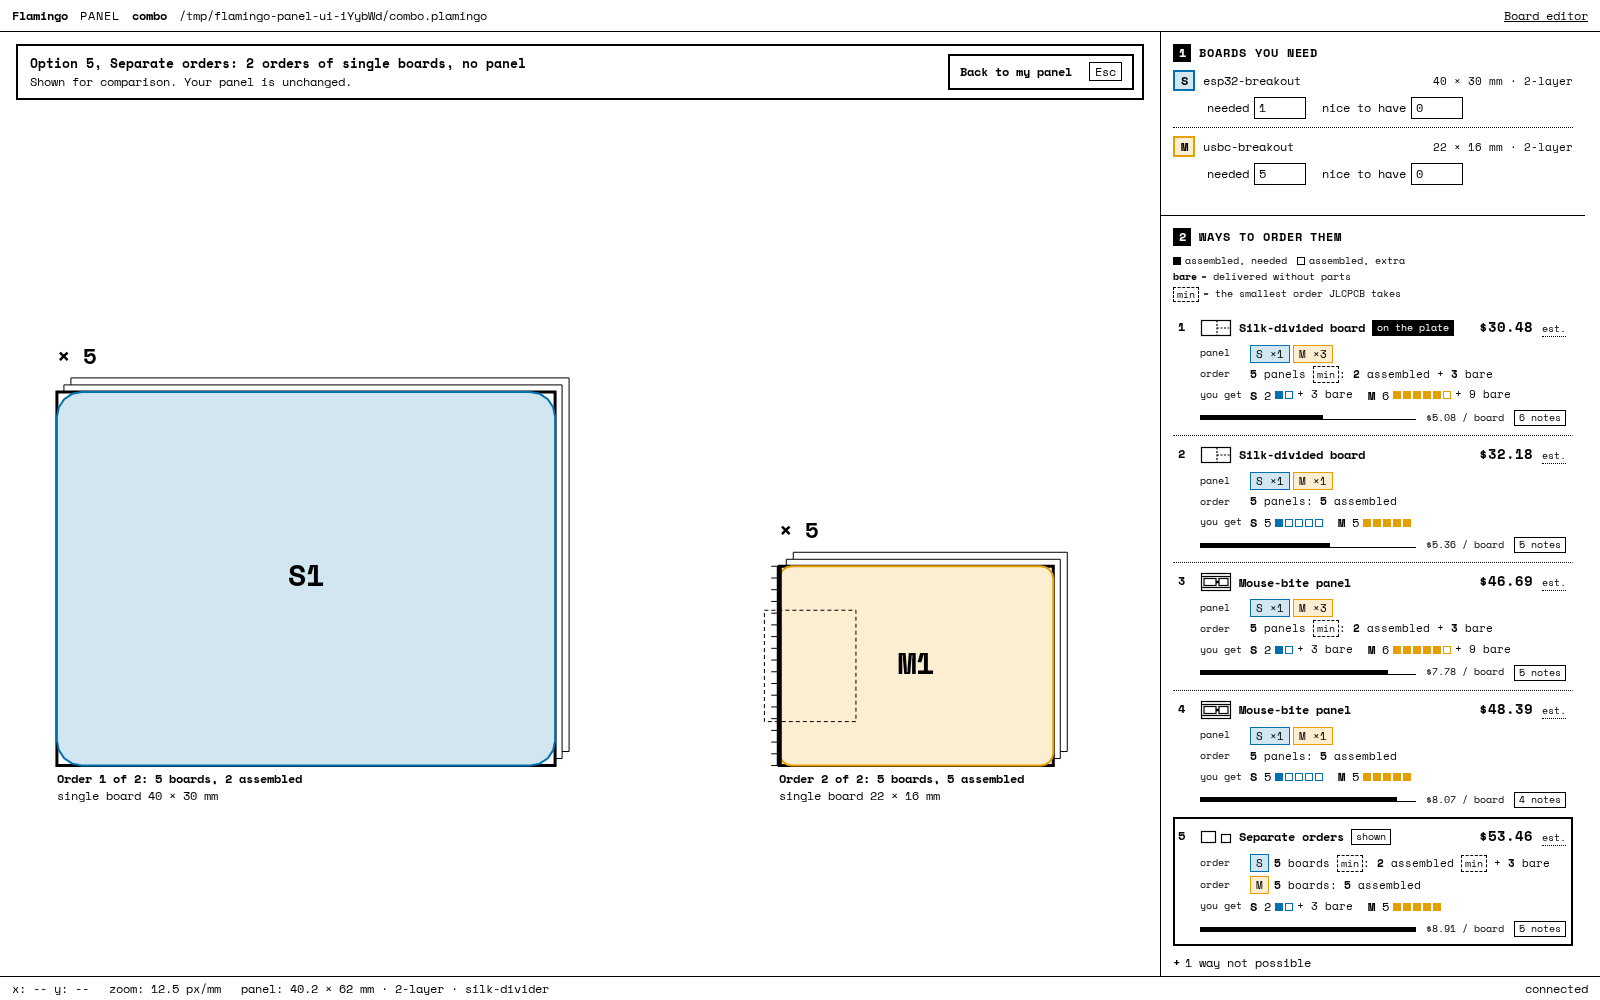
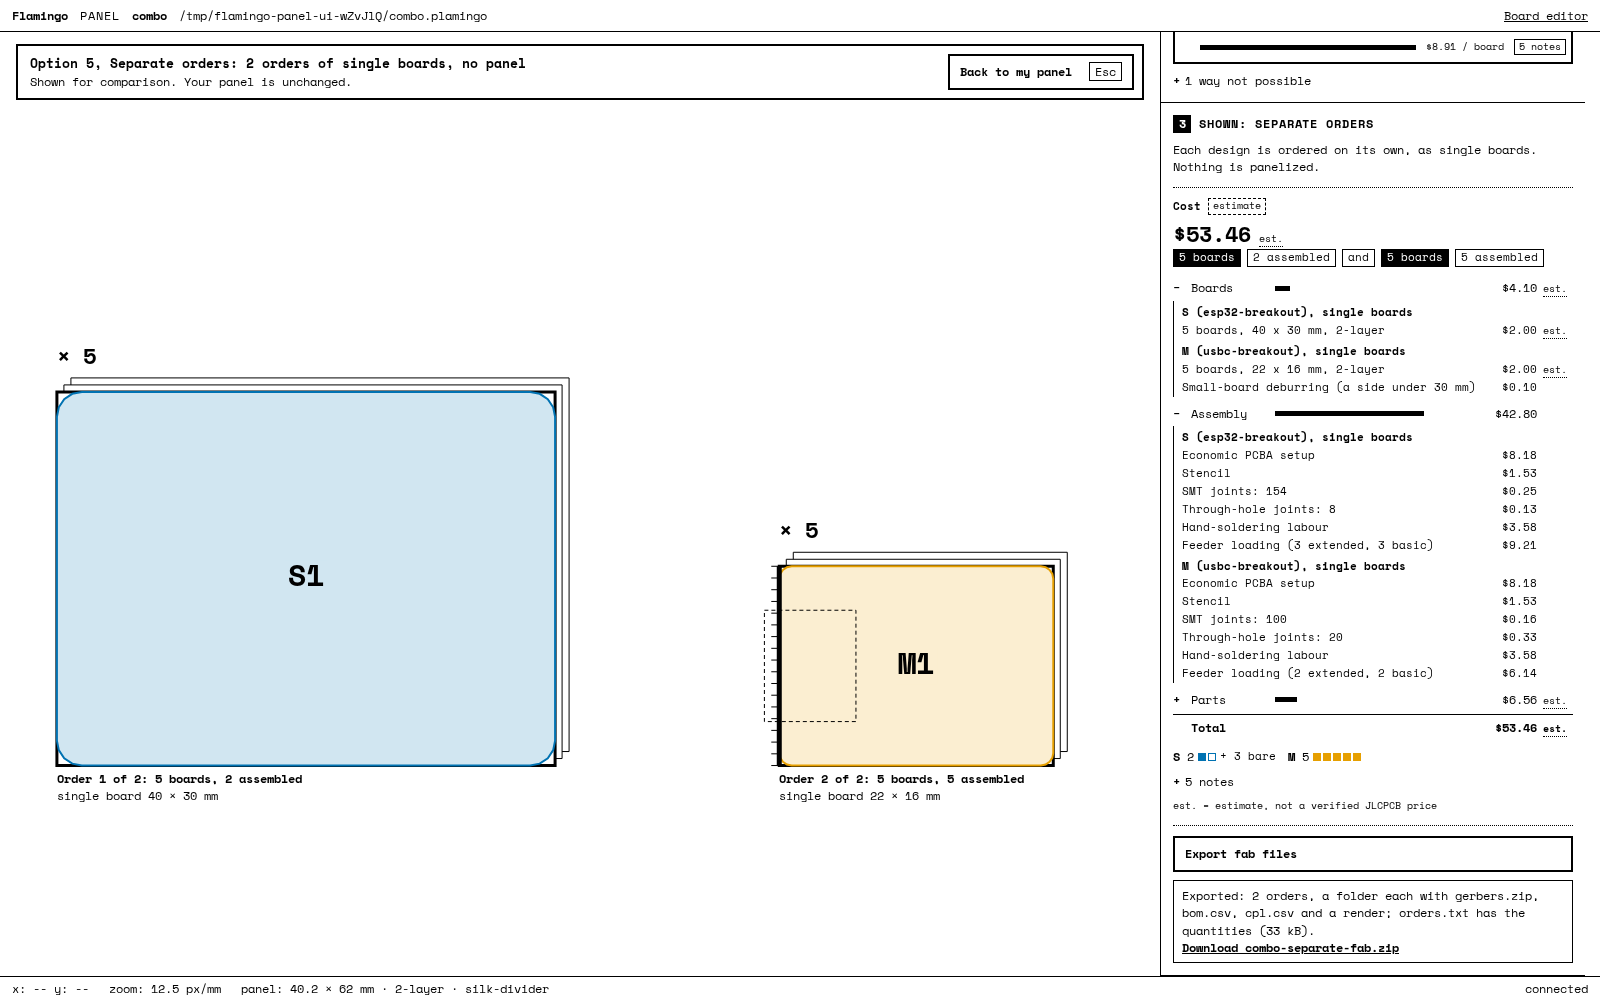
ui: export the fab files of separate orders
Export fab files was disabled while a scenario that is not one panel was
shown (separate orders, each design on its own panel, split by layer
count). It now downloads one zip with a folder per order, each holding
that order's gerbers.zip, BOM, CPL and a render, plus orders.txt with the
quantities to enter. A single-board order gets the board's own export; a
panel order gets the panel export of the scenario's layout. Source-board
DRC errors refuse the export. The panel on the plate is untouched.

New route: GET /api/panel/scenario-export.zip?id=<scenario>.

Also updates verify-panel-ui.ts for the stale tag now reading "stale ↻".

Changed region(s): [[0.7188, 0.031, 0.9688, 0.992], [0.875, 0.527, 0.9062, 0.558], [0.2188, 0.0, 0.25, 0.031]]

diff --git a/packages/server/src/panel/session.ts b/packages/server/src/panel/session.ts
@@ -16,7 +16,8 @@ import { readFile, readdir, stat } from 'node:fs/promises';
 import { basename, dirname, extname, isAbsolute, join, resolve } from 'node:path';
 import { Resvg } from '@resvg/resvg-js';
 import type { Board, DrcViolation } from '@flamingo/engine';
-import { fillAllZones, runDRC } from '@flamingo/engine';
+import { fillAllZones, renderSVG, runDRC } from '@flamingo/engine';
+import { generateBOM, generateCPL, generateGerbers } from '@flamingo/fab';
 import type {
   ArrangeResult,
   FeeTable,
@@ -80,6 +81,21 @@ export interface PanelSessionOptions {
 }
 
 export type { LimitView, PanelView, SourceView } from '@flamingo/panel';
+
+/** One order of a scenario, as the files it uploads to JLCPCB. */
+export interface ScenarioFab {
+  /** Folder in the download, e.g. `S-sensor` or `M-panel`. */
+  folder: string;
+  label: string;
+  /** Pieces fabricated, and how many of them are assembled. */
+  made: number;
+  assembled: number;
+  gerbers: Map<string, string>;
+  bom: string;
+  cpl: string;
+  svgName: string;
+  svg: string;
+}
 
 export type Outcome<T> = ({ ok: true } & T) | { ok: false; error: string };
 
@@ -168,19 +184,25 @@ export class PanelSession extends EventEmitter {
     for (const s of sources) {
       const instances = panel.instances.filter((i) => i.source === s.key).map((i) => i.id);
       if (instances.length === 0) continue;
-      const v = this.sourceDrc(s);
-      if (v.length === 0) continue;
-      const rules = [...new Set(v.map((x) => x.rule))];
-      issues.push({
-        code: 'source-drc',
-        severity: 'error',
-        message: `${s.key} (${s.name}) has ${v.length} DRC violation${v.length === 1 ? '' : 's'} of its own (${rules.join(', ')}). Fix them in the board, or waive to export anyway.`,
-        instances,
-        sources: [s.key],
-        data: { count: v.length, rules },
-      });
+      const issue = this.drcIssue(s, instances);
+      if (issue) issues.push(issue);
     }
     return issues;
+  }
+
+  /** A source board's own DRC violations as one issue, or null when it has none. */
+  private drcIssue(s: ResolvedSource, instances: string[]): PanelIssue | null {
+    const v = this.sourceDrc(s);
+    if (v.length === 0) return null;
+    const rules = [...new Set(v.map((x) => x.rule))];
+    return {
+      code: 'source-drc',
+      severity: 'error',
+      message: `${s.key} (${s.name}) has ${v.length} DRC violation${v.length === 1 ? '' : 's'} of its own (${rules.join(', ')}). Fix them in the board, or waive to export anyway.`,
+      instances,
+      sources: [s.key],
+      data: { count: v.length, rules },
+    };
   }
 
   /** Everything a client needs to draw and judge the panel. Cached until the next change. */
@@ -679,6 +701,79 @@ export class PanelSession extends EventEmitter {
     } catch (err) {
       return fail(err);
     }
+  }
+
+  /**
+   * The fab files of a scenario that is not one panel (separate orders, each
+   * design on its own panel, split by layer count), in memory: one fileset per
+   * order, each what that order uploads to JLCPCB. A single-board order gets
+   * the board's own export, as export_fab writes it; a panel order gets the
+   * panel export of the scenario's layout. The panel on the plate is untouched.
+   */
+  async buildScenarioFab(
+    id: string,
+    opts: { waive?: boolean; objective?: Objective } = {},
+  ): Promise<Outcome<{ scenario: Scenario; orders: ScenarioFab[]; waived: PanelIssue[] }> & { blocking?: PanelIssue[] }> {
+    const result = await this.quote(opts.objective);
+    const scenario = result.scenarios.find((s) => s.id === id);
+    if (!scenario) {
+      const rejected = result.rejected.find((r) => r.id === id);
+      return fail(rejected ? `Scenario "${id}" is not possible: ${rejected.reason}` : `Unknown scenario "${id}"`);
+    }
+    const sources = await this.resolved();
+    const blocking: PanelIssue[] = [];
+    const orders: ScenarioFab[] = [];
+    try {
+      for (const order of scenario.orders) {
+        const made = order.priced.order.pcbQty;
+        const assembled = order.priced.order.assembly?.qty ?? 0;
+        if (!order.panel) {
+          const key = order.designs[0]!;
+          const src = sources.find((s) => s.key === key);
+          if (!src?.board) return fail(src?.error ?? `Board ${key} is not resolved`);
+          const drc = this.drcIssue(src, []);
+          if (drc) blocking.push(drc);
+          const filled = fillAllZones(src.board);
+          orders.push({
+            folder: `${key}-${safeName(src.name)}`,
+            label: order.label,
+            made,
+            assembled,
+            gerbers: generateGerbers(filled).files,
+            bom: generateBOM(src.board),
+            cpl: generateCPL(src.board),
+            svgName: 'board.render.svg',
+            svg: renderSVG(filled),
+          });
+          continue;
+        }
+        if (!order.layout) return fail(`Order "${order.label}" has no panel layout`);
+        const applied = applyPanelOp(this.panel, { op: 'setLayout', instances: order.layout.instances, settings: order.layout.settings });
+        if (!applied.ok) return fail(applied.error);
+        const panel = applied.panel;
+        const geometry = computeGeometry(panel, sources);
+        const issues = [...checkPanel(panel, sources, this.limits, geometry), ...this.drcIssues(panel, sources)];
+        blocking.push(...issues.filter((i) => i.severity === 'error'));
+        const built = buildPanelFab(panel, sources, this.limits, { geometry, issues });
+        orders.push({
+          folder: `${order.designs.join('-')}-panel`,
+          label: order.label,
+          made,
+          assembled,
+          gerbers: built.gerbers,
+          bom: built.bom,
+          cpl: built.cpl,
+          svgName: 'panel.render.svg',
+          svg: built.svg,
+        });
+      }
+    } catch (err) {
+      return fail(err);
+    }
+    if (blocking.length > 0 && !opts.waive) {
+      return { ok: false, error: `${blocking.length} error(s) stop the export`, blocking };
+    }
+    return { ok: true, scenario, orders, waived: blocking };
   }
 
   hasErrors(issues: PanelIssue[]): boolean {

diff --git a/packages/server/scripts/verify-panel-ui.ts b/packages/server/scripts/verify-panel-ui.ts
@@ -659,12 +659,25 @@ async function main(): Promise<void> {
     assert((await separate.locator('.where-shown').innerText()).trim() === 'shown', 'the way shown is not marked');
     assert((await page.locator('#option-list .where-plate').count()) === 1, 'the panel on the plate lost its mark while another way is shown');
     assert((await page.locator('#option-list .scenario.selected').count()) === 1 && (await separate.getAttribute('class'))!.includes('selected'), 'the way in view is not the one framed');
-    // Step 3 is about what is shown: its cost, and nothing to change, check or export.
+    // Step 3 is about what is shown: its cost and its export, and nothing to change or check.
     const sepTotal = await state<number>("s.quote.scenarios.find((x) => x.id === 'separate').total");
     assert((await text('#cost-total')) === `$${sepTotal.toFixed(2)}`, 'step 3 does not show the cost of what is shown');
     assert(!(await page.locator('#plate-edit').isVisible()) && !(await page.locator('#checks').isVisible()), 'what is only shown has tools or checks');
-    assert(await page.locator('#export-btn').isDisabled(), 'what is only shown can be exported');
+    assert(!(await page.locator('#export-btn').isDisabled()), 'separate orders cannot be exported');
     await tidy('with separate orders shown');
+    {
+      await page.locator('#export-btn').click();
+      await page.locator('#export-link').waitFor();
+      const [download] = await Promise.all([page.waitForEvent('download'), page.locator('#export-link').click()]);
+      assert(download.suggestedFilename() === 'combo-separate-fab.zip', `the download is called ${download.suggestedFilename()}`);
+      const zipPath = join(projectDir, 'separate.zip');
+      await download.saveAs(zipPath);
+      const names = new AdmZip(zipPath).getEntries().map((e) => e.entryName);
+      const folders = [...new Set(names.filter((n) => n.includes('/')).map((n) => n.split('/')[0]))];
+      assert(folders.length === 2 && folders.every((f) => names.includes(`${f}/gerbers.zip`) && names.includes(`${f}/bom.csv`)), `the zip holds ${names.join(', ')}`);
+      assert(JSON.stringify((await getView()).panel) === panelBefore, 'exporting separate orders changed the panel');
+      console.log(`  ${download.suggestedFilename()}: ${folders.join(', ')}`);
+    }
     // The plate shows two plates, one per order, each in its board's colour.
     const shotSeparate = await shot('10b-scenario-separate', 'Separate orders selected: the plate shows the two orders side by side, each a stack of single boards with its quantity, under a banner saying the panel is unchanged.');
     {
@@ -798,7 +811,7 @@ async function main(): Promise<void> {
     await writeFile(boardPath, JSON.stringify(edited, null, 2));
     started.panel!.touch();
     await until("v.sources.find((s) => s.key === 'M').stale === true", 'M stale in the page');
-    assert((await text('#board-list .board[data-key="M"] .tag')) === 'stale', 'the board list does not tag M as stale');
+    assert((await text('#board-list .board[data-key="M"] .tag')).startsWith('stale'), 'the board list does not tag M as stale');
     assert((await text('#issue-list .issue[data-code="source-stale"] .issue-title')) === 'Board changed on disk', 'the stale board is not listed under Checks');
     await page.keyboard.press('a');
     await until("v.issues.filter((i) => i.severity === 'error').length === 0", 'a clean panel');

diff --git a/packages/server/src/panel/http.ts b/packages/server/src/panel/http.ts
@@ -50,7 +50,20 @@ function objectiveOf(v: unknown): Objective {
   return typeof v === 'string' && (OBJECTIVES as readonly string[]).includes(v) ? (v as Objective) : 'total';
 }
 
-function streamZip(files: Map<string, string>, res: ServerResponse): Promise<void> {
+/** Zip a name -> content map into memory. */
+function zipBuffer(files: Map<string, string | Buffer>): Promise<Buffer> {
+  return new Promise((resolveP, reject) => {
+    const archive = new ZipArchive({ zlib: { level: 9 } });
+    const chunks: Buffer[] = [];
+    archive.on('data', (c: Buffer) => chunks.push(c));
+    archive.on('end', () => resolveP(Buffer.concat(chunks)));
+    archive.on('error', reject);
+    for (const [name, content] of files) archive.append(content, { name });
+    void archive.finalize();
+  });
+}
+
+function streamZip(files: Map<string, string | Buffer>, res: ServerResponse): Promise<void> {
   return new Promise((resolveP, reject) => {
     const archive = new ZipArchive({ zlib: { level: 9 } });
     let done = false;
@@ -136,6 +149,34 @@ export async function handlePanelApi(
         files.set('cpl.csv', built.files.cpl);
         files.set('panel.render.svg', built.files.svg);
         const name = `${session.panel.name.replace(/[^\w.-]+/g, '_') || 'panel'}-panel-fab.zip`;
+        res.writeHead(200, {
+          'content-type': 'application/zip',
+          'content-disposition': `attachment; filename="${name}"`,
+        });
+        await streamZip(files, res);
+        return true;
+      }
+      case 'scenario-export.zip': {
+        const id = url.searchParams.get('id') ?? '';
+        const built = await session.buildScenarioFab(id, { waive: url.searchParams.get('waive') === '1' });
+        if (!built.ok) {
+          sendJSON(res, 400, { ok: false, error: built.error, issues: built.blocking ?? [] });
+          return true;
+        }
+        // One folder per order, each holding what that order uploads to
+        // JLCPCB: its gerbers.zip as it is, the BOM, the placement list and a
+        // picture. orders.txt says what quantities to enter for each.
+        const files = new Map<string, string | Buffer>();
+        const plan = [`${built.scenario.title}`, ''];
+        for (const o of built.orders) {
+          files.set(`${o.folder}/gerbers.zip`, await zipBuffer(new Map(o.gerbers)));
+          files.set(`${o.folder}/bom.csv`, o.bom);
+          files.set(`${o.folder}/cpl.csv`, o.cpl);
+          files.set(`${o.folder}/${o.svgName}`, o.svg);
+          plan.push(`${o.folder}/  ${o.label}: PCB qty ${o.made}, ${o.assembled > 0 ? `assemble ${o.assembled}` : 'no assembly'}`);
+        }
+        files.set('orders.txt', `${plan.join('\n')}\n`);
+        const name = `${session.panel.name.replace(/[^\w.-]+/g, '_') || 'panel'}-${built.scenario.kind}-fab.zip`;
         res.writeHead(200, {
           'content-type': 'application/zip',
           'content-disposition': `attachment; filename="${name}"`,

diff --git a/packages/ui/src/panel/main.ts b/packages/ui/src/panel/main.ts
@@ -80,7 +80,7 @@ function previewed(): Scenario | undefined {
 /** Show the panel again. */
 function leavePreview(): void {
   if (!store.get().preview) return;
-  store.set({ preview: null });
+  store.set({ preview: null, exportMsg: null });
   const view = store.get().view;
   if (view) fit(view);
 }
@@ -268,7 +268,7 @@ function removeSelected(): void {
 async function selectOption(id: string): Promise<void> {
   const { view, quote } = store.get();
   if (!view) return;
-  store.set({ arrangeMsg: null, selection: null, menu: null, drag: null });
+  store.set({ arrangeMsg: null, exportMsg: null, selection: null, menu: null, drag: null });
   // The panel that is already on the plate: look at it.
   if (id === OWN || scenarioOnPlate(view, quote)?.id === id) {
     leavePreview();
@@ -311,8 +311,9 @@ let exportUrl: string | null = null;
 
 async function exportFab(): Promise<void> {
   if (store.get().busy) return;
+  const shown = previewed();
   store.set({ busy: true, exportMsg: { text: 'Exporting…', problem: false } });
-  const r = await api.exportZip();
+  const r = await api.exportZip(shown?.id);
   if (exportUrl) URL.revokeObjectURL(exportUrl);
   exportUrl = null;
   if (isError(r)) {
@@ -320,7 +321,9 @@ async function exportFab(): Promise<void> {
     store.set({
       busy: false,
       exportMsg: {
-        text: `Not exported: ${r.error}.${findings ? `\n${findings}` : ''}\nFix the errors listed under Warnings. To export regardless, use export_panel_fab with waive.`,
+        text: shown
+          ? `Not exported: ${r.error}.${findings ? `\n${findings}` : ''}\nFix them in the boards.`
+          : `Not exported: ${r.error}.${findings ? `\n${findings}` : ''}\nFix the errors listed under Warnings. To export regardless, use export_panel_fab with waive.`,
         problem: true,
       },
     });
@@ -330,7 +333,9 @@ async function exportFab(): Promise<void> {
   store.set({
     busy: false,
     exportMsg: {
-      text: `Exported: gerbers, drills, bom.csv, cpl.csv and a render, in one zip (${Math.max(1, Math.round(r.blob.size / 1024))} kB).`,
+      text: shown
+        ? `Exported: ${shown.orders.length} order${shown.orders.length === 1 ? '' : 's'}, a folder each with gerbers.zip, bom.csv, cpl.csv and a render; orders.txt has the quantities (${Math.max(1, Math.round(r.blob.size / 1024))} kB).`
+        : `Exported: gerbers, drills, bom.csv, cpl.csv and a render, in one zip (${Math.max(1, Math.round(r.blob.size / 1024))} kB).`,
       problem: false,
       link: { href: exportUrl, name: r.name, label: `Download ${r.name}` },
     },

diff --git a/packages/server/test/panel-sync.test.ts b/packages/server/test/panel-sync.test.ts
@@ -270,6 +270,32 @@ describe('panel sync: MCP, HTTP and WebSocket act on one panel', () => {
     expect((await fetch(`${base}/api/panel/export.zip?waive=1`)).status).toBe(200);
   });
 
+  it('HTTP: exports a scenario of separate orders, one folder per order, leaving the plate alone', async () => {
+    await post('/api/panel/new', { name: 'combo' });
+    await post('/api/panel/add-board', { path: 'sensor.flamingo', needed: 1 });
+    await post('/api/panel/add-board', { path: 'mini.flamingo', needed: 5 });
+    const before = (await (await fetch(`${base}/api/panel`)).json()) as PanelView;
+
+    const res = await fetch(`${base}/api/panel/scenario-export.zip?id=separate`);
+    expect(res.status).toBe(200);
+    expect(res.headers.get('content-disposition')).toBe('attachment; filename="combo-separate-fab.zip"');
+    const zip = new AdmZip(Buffer.from(await res.arrayBuffer()));
+    const names = zip.getEntries().map((e) => e.entryName);
+    for (const folder of ['S-sensor', 'M-mini']) {
+      expect(names).toEqual(
+        expect.arrayContaining([`${folder}/gerbers.zip`, `${folder}/bom.csv`, `${folder}/cpl.csv`, `${folder}/board.render.svg`]),
+      );
+    }
+    // Each order's gerbers.zip is a board's own fileset, ready to upload.
+    const gerbers = new AdmZip(zip.getEntry('M-mini/gerbers.zip')!.getData()).getEntries().map((e) => e.entryName);
+    expect(gerbers.some((n) => n.endsWith('.GKO'))).toBe(true);
+    expect(zip.getEntry('orders.txt')!.getData().toString()).toMatch(/M-mini\/.*PCB qty 5/);
+
+    const after = (await (await fetch(`${base}/api/panel`)).json()) as PanelView;
+    expect(after.panel.instances).toEqual(before.panel.instances);
+    expect((await fetch(`${base}/api/panel/scenario-export.zip?id=nope`)).status).toBe(400);
+  });
+
   it('HTTP: lists files and serves the config with its unverified entries', async () => {
     await post('/api/panel/new', { name: 'combo' });
     await post('/api/panel/add-board', { path: 'mini.flamingo' });

diff --git a/packages/ui/src/panel/api.ts b/packages/ui/src/panel/api.ts
@@ -46,10 +46,14 @@ export const api = {
     }
   },
 
-  /** Run the export and return the zip, or the findings that stopped it. */
-  async exportZip(): Promise<{ ok: true; blob: Blob; name: string } | ApiError> {
+  /**
+   * Run the export and return the zip, or the findings that stopped it. With a
+   * scenario id, export that scenario's orders, one folder each, instead of
+   * the panel on the plate.
+   */
+  async exportZip(scenario?: string): Promise<{ ok: true; blob: Blob; name: string } | ApiError> {
     try {
-      const res = await fetch('/api/panel/export.zip');
+      const res = await fetch(scenario ? `/api/panel/scenario-export.zip?id=${encodeURIComponent(scenario)}` : '/api/panel/export.zip');
       if (!res.ok) return (await res.json()) as ApiError;
       const disposition = res.headers.get('content-disposition') ?? '';
       const name = /filename="([^"]+)"/.exec(disposition)?.[1] ?? 'panel-fab.zip';

diff --git a/packages/ui/src/panel/sidebar.ts b/packages/ui/src/panel/sidebar.ts
@@ -467,10 +467,8 @@ export function createSidebar(els: SidebarEls, actions: SidebarActions): (state:
     els.plateEdit.hidden = showing || view.sources.length === 0;
     els.checks.hidden = showing;
     els.arrangeBtn.disabled = state.busy || empty || showing;
-    els.exportBtn.disabled = state.busy || empty || showing;
-    els.exportBtn.title = showing
-      ? 'What is shown is ordered board by board: export each from the board editor. Go back to your panel to export that.'
-      : '';
+    els.exportBtn.disabled = state.busy || (empty && !showing);
+    els.exportBtn.title = showing ? 'One folder per order, each with its own gerbers.zip, BOM and placement list.' : '';
 
     once('counts', JSON.stringify([view.sources.map((s) => [s.key, s.instances, s.populated, !!s.geometry]), state.busy]), () => {
       const keys = view.sources.map((s) => s.key);
